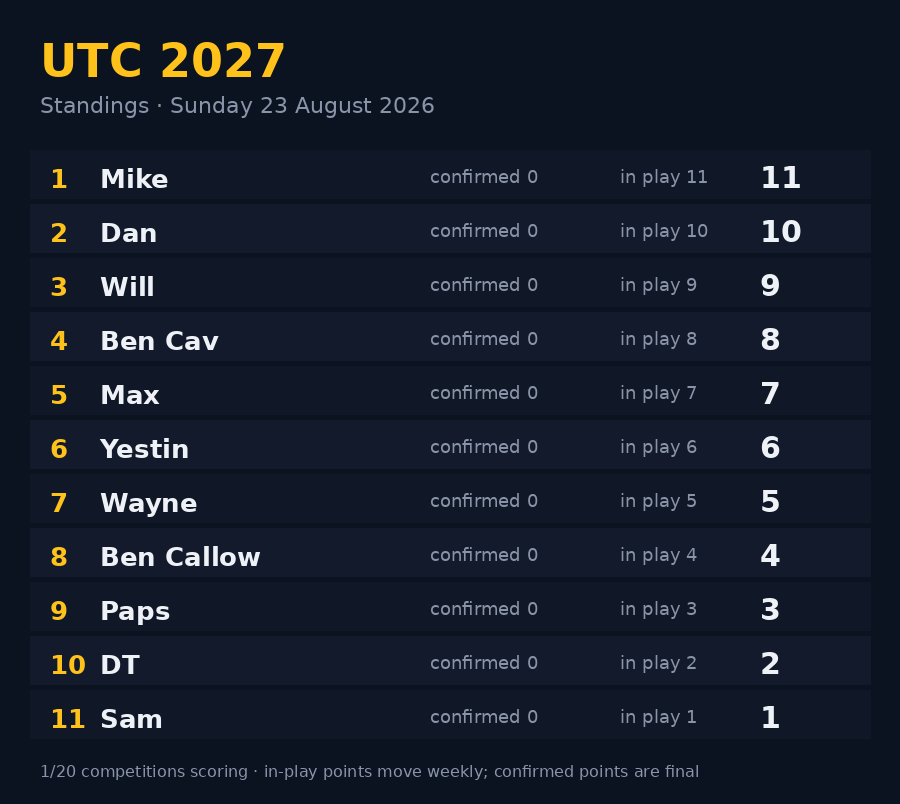
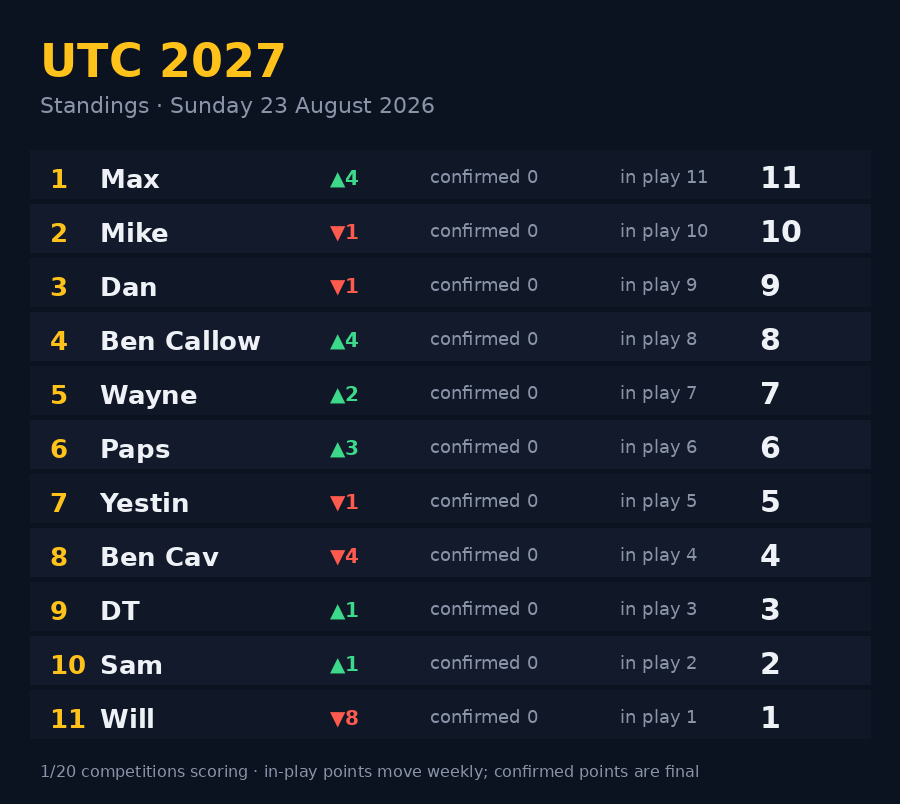
standings 2026-08-23

diff --git a/docs/reports/2026-08-23.html b/docs/reports/2026-08-23.html
@@ -2,7 +2,7 @@
 <title>UTC 2027 — Monday update, 23 Aug</title>
 <meta property="og:type" content="website">
 <meta property="og:title" content="UTC 2027 — Monday update, 23 Aug">
-<meta property="og:description" content="Mike leads on 11 · tap for the full ladder">
+<meta property="og:description" content="Max leads on 11 · tap for the full ladder">
 <meta property="og:url" content="https://wkesby.github.io/utc-2027/reports/2026-08-23.html">
 <meta property="og:image" content="https://wkesby.github.io/utc-2027/reports/2026-08-23.png">
 <meta property="og:image:type" content="image/png">
